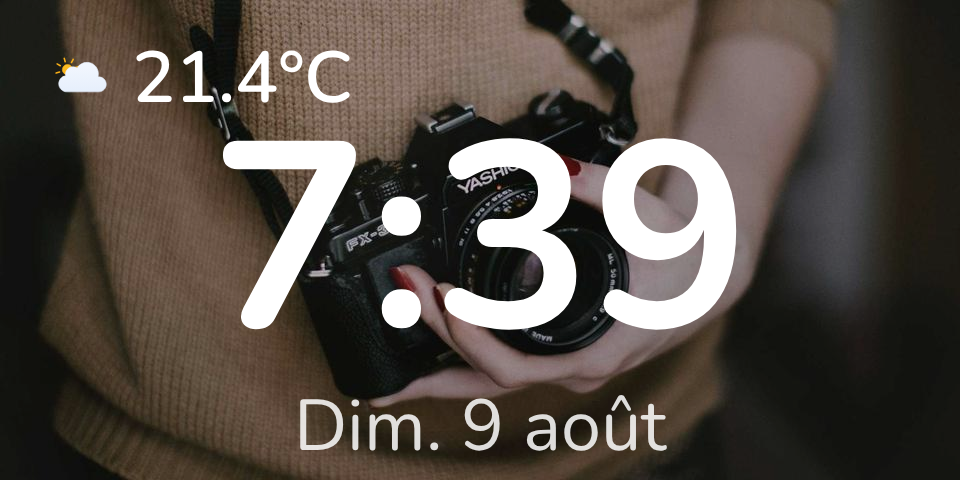
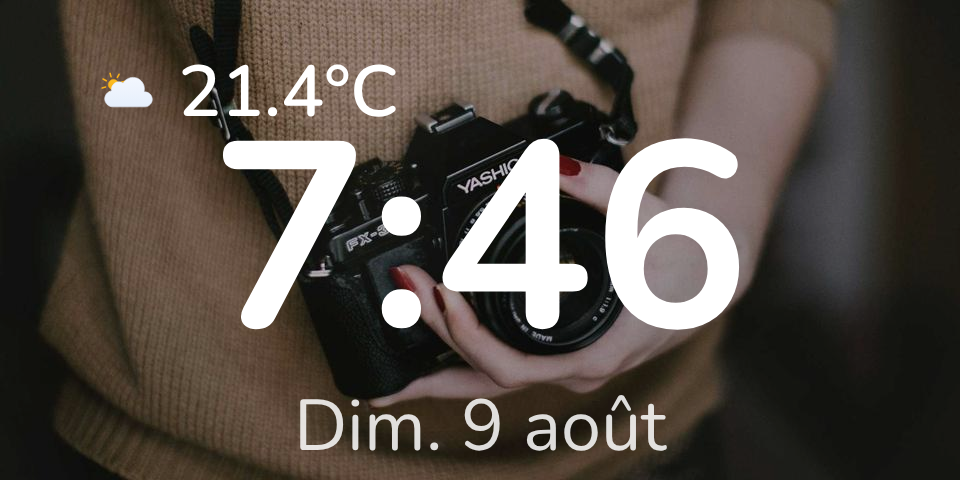
1.0.6: retrait météo nettement plus marqué
Le changement de la 1.0.5 était trop subtil (~12px, imperceptible sur
960px de large). Doublé : 90px depuis la gauche / 43px depuis le haut
en paysage (mesuré), proportionnellement en mode round.

Aucun changement de taille de police (--_date-size et
--_weather-temp-size inchangées depuis la 1.0.2, vérifié) — la
température affiche juste plus de caractères depuis la 1.0.3
(21.4°C vs 21°), d'où l'impression contraire.

Changed region(s): [[0.4375, 0.2812, 0.7812, 0.6875], [0.0625, 0.0938, 0.4062, 0.25]]

diff --git a/src/echo-home-card.js b/src/echo-home-card.js
@@ -388,8 +388,8 @@ class EchoHomeCard extends LitElement {
 
     .weather {
       position: absolute;
-      top: clamp(20px, 6vh, 40px);
-      left: clamp(20px, 7%, 44px);
+      top: clamp(36px, 9vh, 70px);
+      left: clamp(40px, 10%, 90px);
       z-index: 1;
       display: flex;
       align-items: center;
@@ -401,7 +401,7 @@ class EchoHomeCard extends LitElement {
        en haut à la place. */
     .card.round .weather {
       left: 50%;
-      top: clamp(36px, 18%, 64px);
+      top: clamp(44px, 22%, 80px);
       transform: translateX(-50%);
     }
 

diff --git a/dist/echo-home-card.js b/dist/echo-home-card.js
@@ -936,8 +936,8 @@ q(V, "properties", {
 
     .weather {
       position: absolute;
-      top: clamp(20px, 6vh, 40px);
-      left: clamp(20px, 7%, 44px);
+      top: clamp(36px, 9vh, 70px);
+      left: clamp(40px, 10%, 90px);
       z-index: 1;
       display: flex;
       align-items: center;
@@ -949,7 +949,7 @@ q(V, "properties", {
        en haut à la place. */
     .card.round .weather {
       left: 50%;
-      top: clamp(36px, 18%, 64px);
+      top: clamp(44px, 22%, 80px);
       transform: translateX(-50%);
     }
 

diff --git a/CHANGELOG.md b/CHANGELOG.md
@@ -1,5 +1,17 @@
 # Changelog
 
+## 1.0.6
+
+- Le retrait météo de la 1.0.5 était trop subtil pour être perceptible
+  (~12px d'écart sur 960px de large). Nettement plus marqué cette fois
+  (mesuré : 90px depuis la gauche, 43px depuis le haut, contre 44/29
+  avant — plus du double).
+- Pour clarifier un doute : ni `--_date-size` ni `--_weather-temp-size`
+  n'ont changé depuis la 1.0.2 (vérifié dans l'historique et par
+  mesure : les deux valent 72px sur 960x480, identique). L'impression de
+  police plus grosse sur la météo vient du format ajouté en 1.0.3
+  (`21.4°C` au lieu de `21°`, texte plus long à taille égale).
+
 ## 1.0.5
 
 - Espace horloge→date désormais égal à l'espace date→bas d'écran (18px
